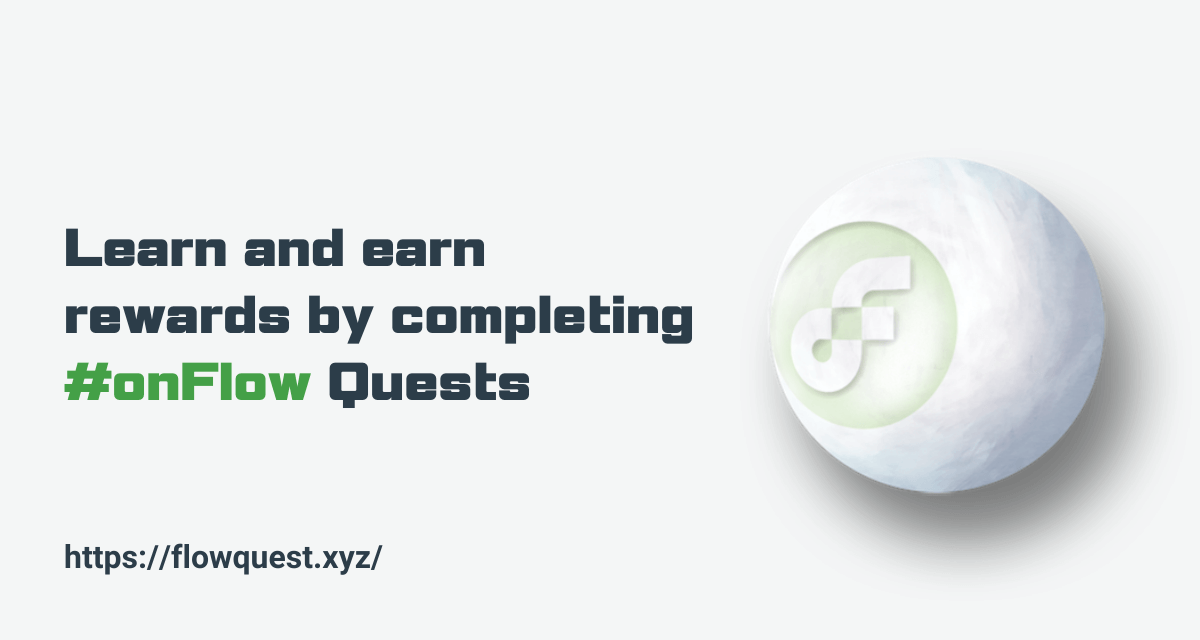
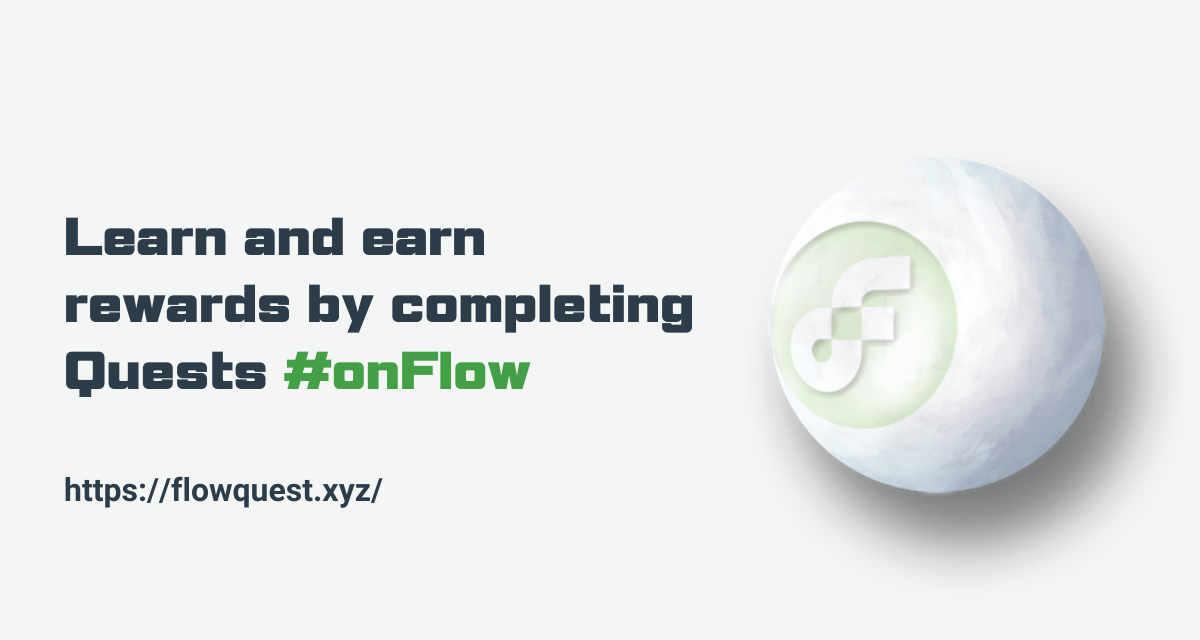
feat: update social media and title

Changed region(s): [[0.0308, 0.3438, 0.5858, 0.6562], [0.0308, 0.8438, 0.3083, 0.9062], [0.0308, 0.75, 0.3392, 0.7812]]

diff --git a/src/pages/index.vue b/src/pages/index.vue
@@ -9,7 +9,7 @@ const appConfig = useAppConfig();
         <img src="~/assets/images/home-flow.png" alt="home flow" class="max-w-xs" />
         <div>
           <h3 class="text-5xl font-bold">
-            Learn and earn rewards by completing <strong class="text-primary">#onFlow</strong> Quests
+            Learn and earn rewards by completing Quests <strong class="text-primary">#onFlow</strong>
           </h3>
           <p class="py-6">
             Plan to start the web3 journey? The {{ appConfig.title }} will be your guide.<br />

diff --git a/src/app.vue b/src/app.vue
@@ -11,7 +11,7 @@ useHead({
 
 // ----- Data -----
 const description = ref(
-  "A Flow on-chain quests platform. You can learn and earn rewards by completing #onFlow Quests."
+  "A Flow on-chain quests platform. You can learn and earn rewards by completing Quests #onFlow."
 );
 </script>
 
